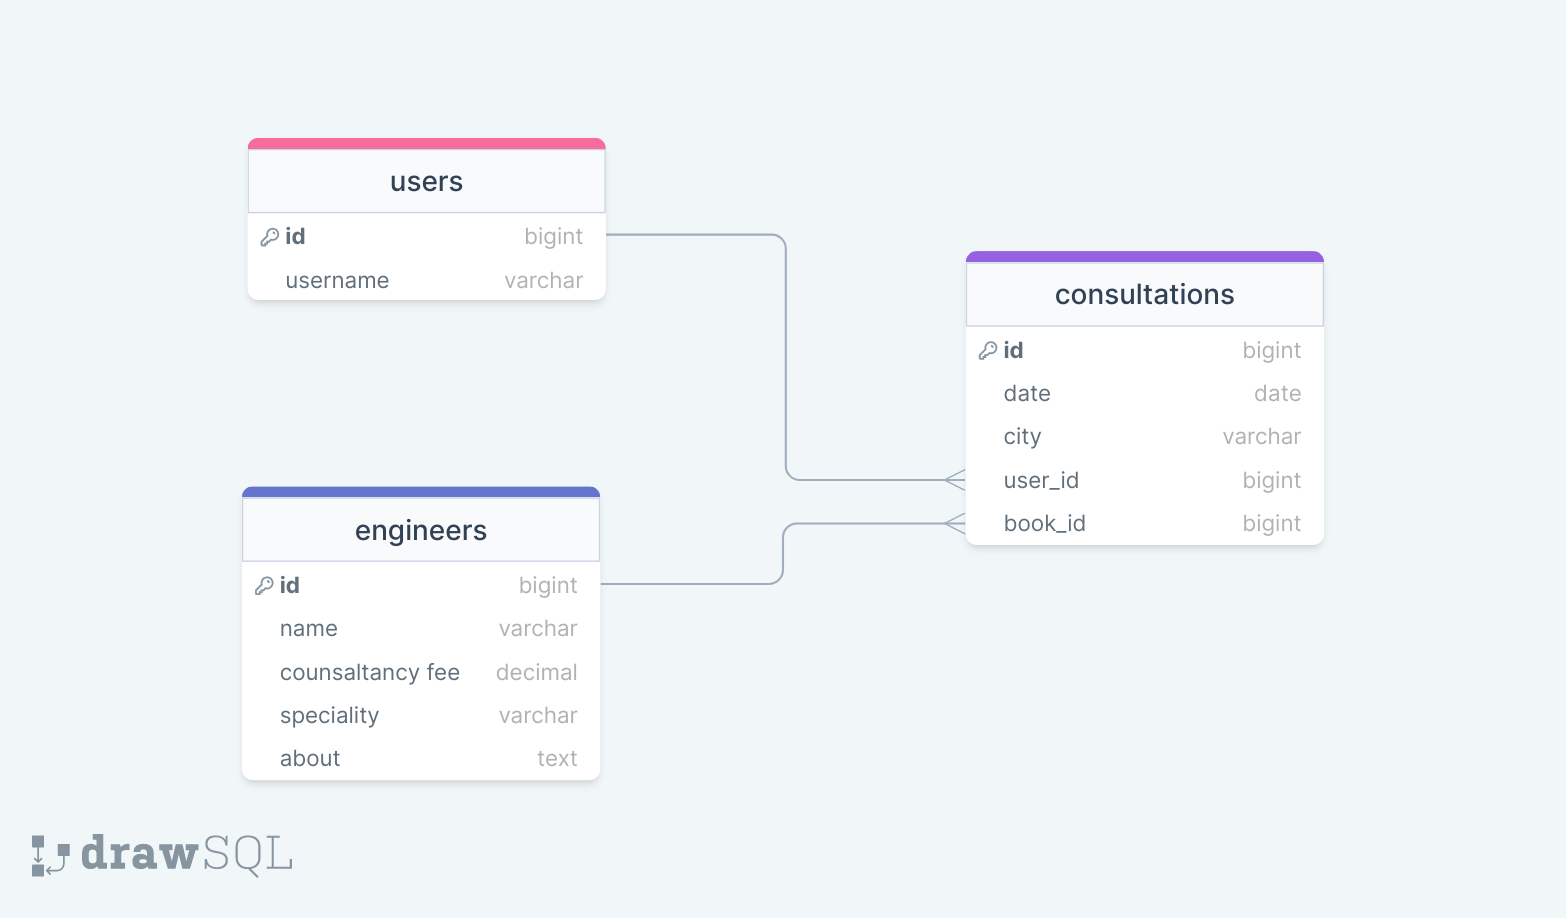
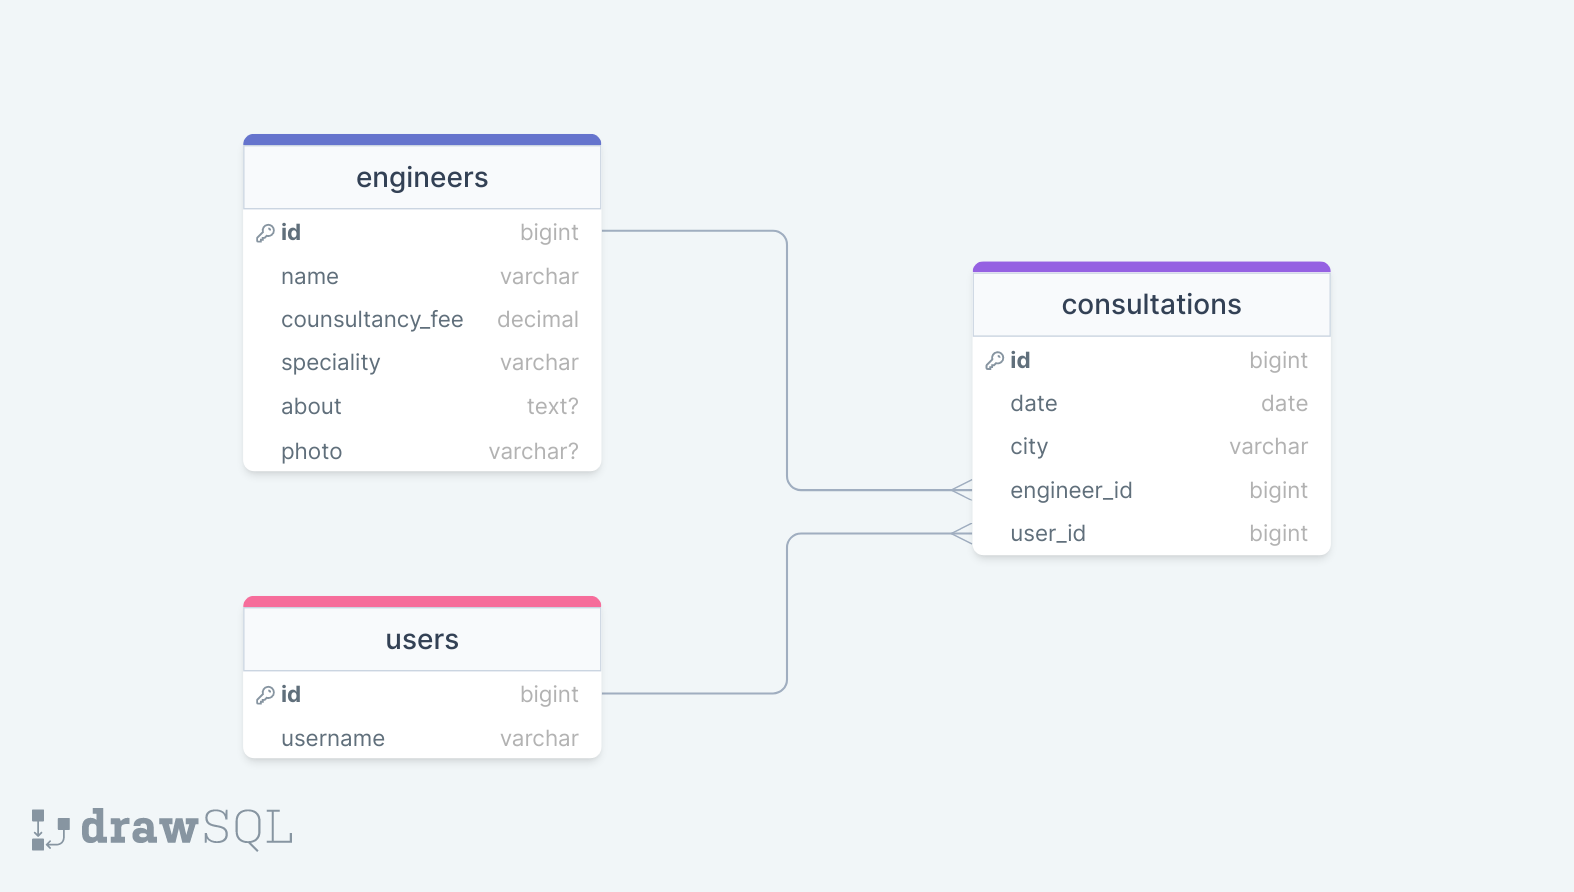
Implement database tables according to the ERD

diff --git a/db/migrate/20240127164755_create_consultations.rb b/db/migrate/20240127164755_create_consultations.rb
@@ -1,0 +1,12 @@
+class CreateConsultations < ActiveRecord::Migration[7.1]
+  def change
+    create_table :consultations do |t|
+      t.date :date, null: false
+      t.string :city, null: false
+      t.references :user, null: false, foreign_key: true
+      t.references :engineer, null: false, foreign_key: true
+
+      t.timestamps
+    end
+  end
+end

diff --git a/db/migrate/20240127164742_create_engineers.rb b/db/migrate/20240127164742_create_engineers.rb
@@ -1,0 +1,13 @@
+class CreateEngineers < ActiveRecord::Migration[7.1]
+  def change
+    create_table :engineers do |t|
+      t.string :name, null: false
+      t.string :photo
+      t.decimal :consultancy_fee, precision: 8, scale: 2, null: false
+      t.string :speciality, null: false
+      t.text :about
+
+      t.timestamps
+    end
+  end
+end

diff --git a/spec/factories/engineers.rb b/spec/factories/engineers.rb
@@ -1,0 +1,9 @@
+FactoryBot.define do
+  factory :engineer do
+    name { "MyString" }
+    photo { "MyString" }
+    consultancy_fee { "9.99" }
+    speciality { "MyString" }
+    about { "MyText" }
+  end
+end

diff --git a/db/migrate/20240127164725_create_users.rb b/db/migrate/20240127164725_create_users.rb
@@ -1,0 +1,9 @@
+class CreateUsers < ActiveRecord::Migration[7.1]
+  def change
+    create_table :users do |t|
+      t.string :username, null: false
+
+      t.timestamps
+    end
+  end
+end

diff --git a/spec/factories/consultations.rb b/spec/factories/consultations.rb
@@ -1,0 +1,8 @@
+FactoryBot.define do
+  factory :consultation do
+    date { "2024-01-27" }
+    city { "MyString" }
+    user { nil }
+    engineer { nil }
+  end
+end

diff --git a/spec/models/consultation_spec.rb b/spec/models/consultation_spec.rb
@@ -1,0 +1,5 @@
+require 'rails_helper'
+
+RSpec.describe Consultation, type: :model do
+  pending "add some examples to (or delete) #{__FILE__}"
+end

diff --git a/spec/models/engineer_spec.rb b/spec/models/engineer_spec.rb
@@ -1,0 +1,5 @@
+require 'rails_helper'
+
+RSpec.describe Engineer, type: :model do
+  pending "add some examples to (or delete) #{__FILE__}"
+end

diff --git a/spec/models/user_spec.rb b/spec/models/user_spec.rb
@@ -1,0 +1,5 @@
+require 'rails_helper'
+
+RSpec.describe User, type: :model do
+  pending "add some examples to (or delete) #{__FILE__}"
+end

diff --git a/app/models/consultation.rb b/app/models/consultation.rb
@@ -1,0 +1,4 @@
+class Consultation < ApplicationRecord
+  belongs_to :user
+  belongs_to :engineer
+end

diff --git a/spec/factories/users.rb b/spec/factories/users.rb
@@ -1,0 +1,5 @@
+FactoryBot.define do
+  factory :user do
+    username { "MyString" }
+  end
+end

diff --git a/app/models/engineer.rb b/app/models/engineer.rb
@@ -1,0 +1,2 @@
+class Engineer < ApplicationRecord
+end

diff --git a/app/models/user.rb b/app/models/user.rb
@@ -1,0 +1,2 @@
+class User < ApplicationRecord
+end
